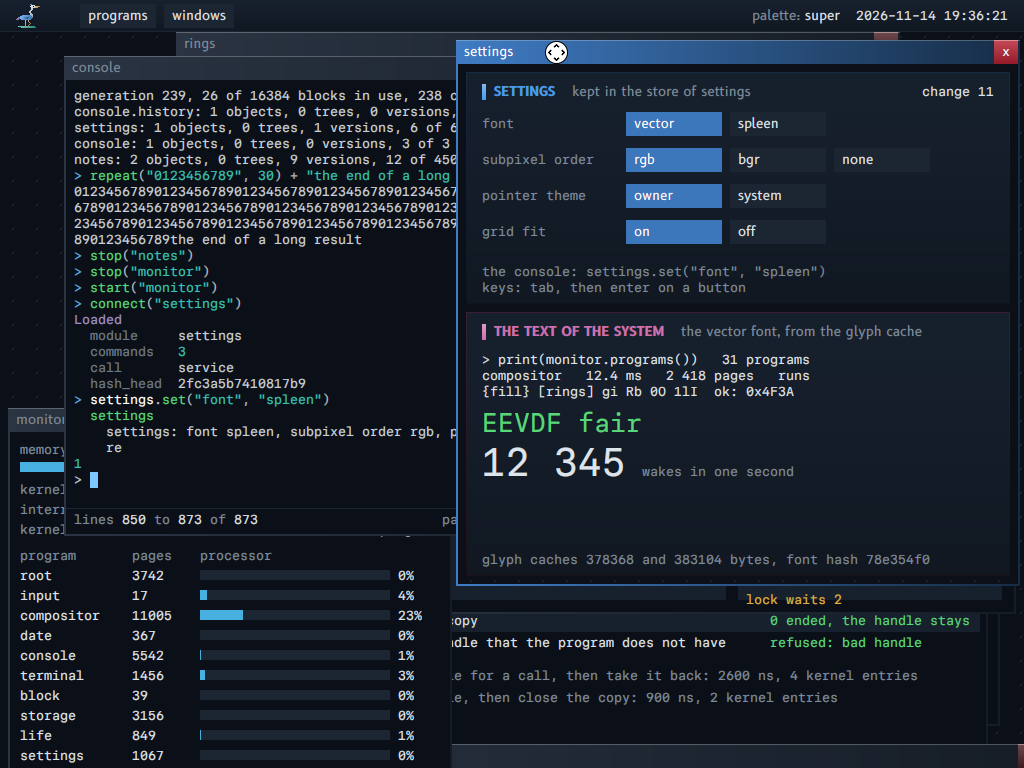
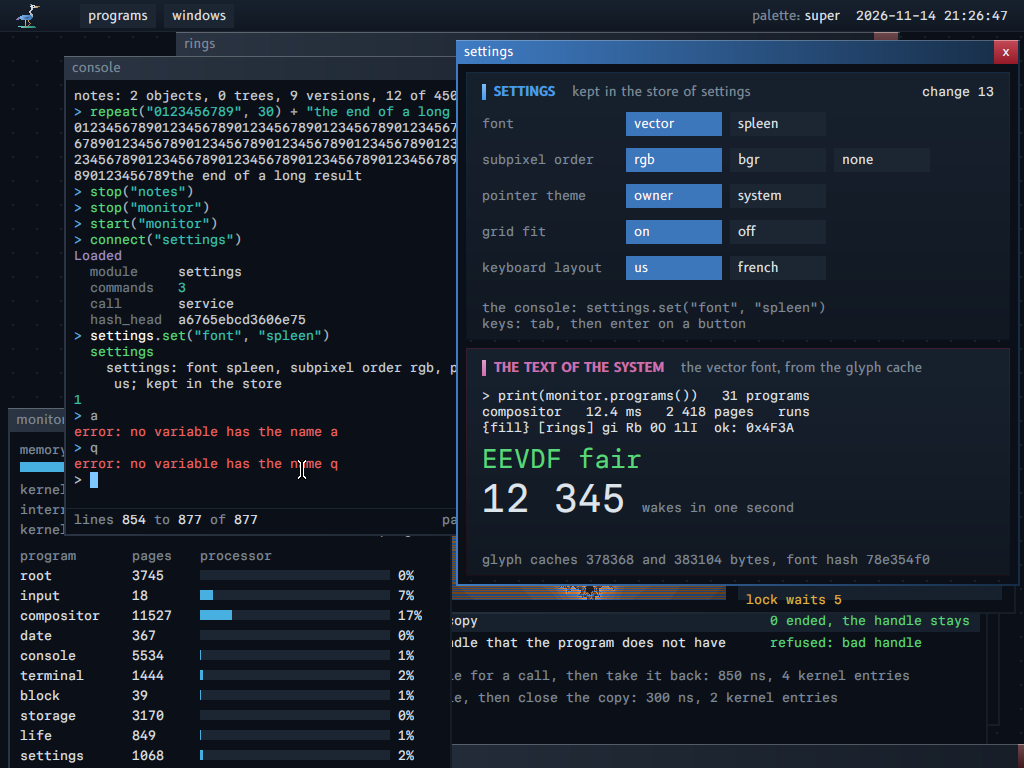
The layout of the keyboard is a setting: us or french, read by the input service at each key

diff --git a/docs/FONTS.md b/docs/FONTS.md
@@ -123,7 +123,8 @@ Each program validates its glyph caches once, then the drawing code reads the co
 | `values[subpixel_order]` | any number | the same: one of three orders of the stripes, a look |
 | `values[pointer_theme]` | any number | one of the two theme files that the compositor validated, a look |
 | `values[grid_fit]` | any number | one of the two caches that the program validated, a look |
-| `values[4..7]` | any number | no reader |
+| `values[keyboard_layout]` | any number | the input service gives each key the character of one of its two layouts; a value that the setting does not have reads as 0, the layout of the United States |
+| `values[5..7]` | any number | no reader |
 | `change_count` | odd for ever, or changed with no end | a reader gives up after 64 reads and takes the defaults (`settings.read`). The compositor tells the windows only when the values differ from the values that it told last (`settings.values_differ`): a new count with the same values sends no record into the ring of a window, which also carries its keys. Values that change with no end make the windows draw again: a cost of time, which the program `settings` also pays |
 | `reserved` | any number | no reader |
 
@@ -257,6 +258,7 @@ The settings are the smallest form that keeps the properties:
 - **The settings** (one value of the page and one row of `settings.descriptions` each; the window, the exports and the kept record read the same table): `font` (`vector`, `spleen`), `subpixel_order` (`rgb`, `bgr`, `none`), `pointer_theme` (`owner`, `system`) and `grid_fit` (`on`, `off`). Value 0 of each is its default.
   - **The pointer theme**: the root service gives the compositor both pointer theme files of the boot image (`pointer_theme_choice` in `src/programs/root/resources.odin` is the one place of their order: the values 6 and 7, then 18 and 19); the compositor validates each once and the setting chooses one live (`pointer_theme_choose`, a log line "the pointer theme in use").
   - **The grid fit**: two glyph caches of the default font are resources of the boot image (390 624 bytes with the fit, 397 344 without: +397 344 bytes in the image); each program validates both once and the setting chooses one. The picture `font_without_grid_fit`.
+  - **The layout of the keyboard**: the root service maps the settings page, read-only, in the input service, which reads the value at each key: a change holds from the next key. The two layouts are the United States (QWERTY) and France (AZERTY). A character of the system is one byte of ASCII, so a key whose character is outside ASCII in a layout (é, è, ç, à, ù) gives no character there; a program still gets its key code. The input service holds no other right for it: the page is the one thing that it reads.
   - **The scheduling strategy is not a setting.** The right `Schedule` belongs to `scheduler`. The settings service must not get a kernel right to pass it on (property 20: a service does not combine its own access with the request of a caller), and asking `scheduler` needs `scheduler` to run as a service at boot with that right. The principal changes the strategy through `scheduler`, the program that holds the right: in its window, or with its export `strategy_set`, which the console runs as `strategy(name)` and the palette as an entry, and which serves only a caller that acts for the principal (`SCHEDULING.md`, "The change at run time"). The program does not run at boot: it must be started. A strategy that survives a stop needs the root service, which holds the machine with each right, to read a record at boot. This is not built: it needs its own grant decision.
 - **The program `settings`**: a window of the interface package: each setting as a row of buttons (the pointer and the keyboard: Tab, then Enter), the text of the system at its three sizes, the facts of the glyph cache (size, hash, valid or not used). Exports with descriptions (P19): `settings.set(name, value)` (1, or an error record: `No_Grant` -1 for a caller that does not act for the principal, `Absent` -2 for a name, `Bad_Value` -3 for a value) and `settings.get(name)` (a text), and `settings.repeat(count)` (count records kept, one commit each: the case of the loss of power). The console calls them after `connect("settings")`; `modustool call` calls them through `remote`.
 - **The settings survive a stop.** `settings` keeps the values as one record of 48 bytes (`Kept_Settings`: a magic, a version, a count, 8 values) in one object of its private store (P9): a change writes the record (one commit) first, then the page. At boot the root service starts `settings` for a **boot pass** (the context value 17): it reads the record, writes the page, wakes the compositor and stops, with no window. The storage service and the block service of the data disk start at boot for it. A record of another version, or none, gives the defaults.

diff --git a/docs/FIRST_MILESTONE.md b/docs/FIRST_MILESTONE.md
@@ -1010,6 +1010,7 @@ The cost of the checks, as these runs show it: about 30 % of the reports and of 
 761. **The debugger has a window, a client of the service** (`src/programs/debugger_window`, `src/library/support/system/calls.odin`, `src/programs/root/main.odin`; `TOOLS.md`, "The window of the debugger"; `src/md/features/debugger_window.md`). (1) The program `debugger_window` connects to the service `debugger` and calls 13 of its exports. Its grants: Connect, with `debugger` as the one service that it can reach, Image and Acts_For_Principal. It holds no right over a program. (2) `system.call_isolated` takes the memory of the caller for the records of a Table result, and gives the count of the records that it copied there: the console had that code for itself only. (3) The window declares the records of the rows, and compares the size of each with the description in the file of the service at its start. (4) Four cards, each text in its box, and one key for each act; the window reads the threads again each 500 ms. (5) The machine test of the debugger: the window attaches to `debug_target` by a typed name, holds the main thread, shows the frame of its caller (the picture), runs one line over each call, and detaches. (6) Left, with an entry of the roadmap: breakpoints and watches from the window, the registers, the memory.
 762. **The window of the debugger puts a breakpoint at the line of a frame, and shows the registers** (`src/programs/debugger_window/main.odin`; `TOOLS.md`, "The window of the debugger"). (1) The key `b` calls `break_at` with the path of the file and the line of the chosen frame: the place is a text that the service already takes, so the window computes no address. A frame with no line has no such place, and the status line says so. (2) The card of the program lists the breakpoints under the threads, each with its number, and the keys `0` to `3` call `break_remove`. (3) The key `g` gives the card of the variables to the registers of the chosen thread, in two columns of a name and a value with no leading zero, and gives it back. (4) The window calls 17 exports of the service. Left, with an entry of the roadmap: a watch, a place that the developer types, the memory, a click.
 763. **A machine starts an outside module from a disk** (`tools/modustool/outside_module.odin`, `disk_programs.odin`; `TOOLS.md`, "A module from a source outside the repository"). (1) The first plan put an outside module in the boot image of a volume, which changes the system description, the debug image and the build record. The disk programs make that plan needless: the module file of an outside module is a file of the store `programs`, and the root service starts it by its hash, with no grant. (2) The command `program-disk <disk file> <module file> ...` writes the disk and prints the line `start_from_disk("name", "hash")` for each file; the loader must take each file, and the command writes no disk over a file that exists. (3) The test part `disk_programs` builds the sources of `visitor` outside the sources with `module-build`, under the name `outsider`, puts the file on its disk as a fourth object, and starts it in the machine. (4) Left: the debug object of such a module in the debug image of the machine.
+764. **The layout of the keyboard is a setting** (`src/library/contract/settings/settings.odin`, `src/programs/input/main.odin`, `src/programs/root/main.odin`; `FONTS.md`, "The settings"; `GLOSSARY.md`, "Setting"). (1) The setting `keyboard_layout` has two values: `us` (QWERTY, the default) and `french` (AZERTY). It is the fifth value of the settings page, so the window, the exports and the kept record of `settings` show it with no code of their own. (2) The root service maps the settings page, read-only, in the input service, which reads the value at each key: a change holds from the next key, with no message and no restart. The input service gets no other right. (3) A character of the system is one byte of ASCII: a key whose character is outside ASCII in the layout of France (é, è, ç, à, ù, ², °, £, µ, §) gives no character, and a program still gets its key code. An entry of the roadmap holds the characters of Unicode. (4) Refused: a layout in the compositor (the compositor does not know scan codes; the input service turns them into characters for each program); a message of the settings service to the input service at each change (the page is already the one place of the values, and a reader of the page needs no ring). (5) The machine test sets the layout from the host, types the key of `q` under each layout, and finds `> a`, then `> q`. Escape closes the completion list that a typed name opens, so that Enter runs the line.
 
 ## Gaps
 

diff --git a/ROADMAP.md b/ROADMAP.md
@@ -33,7 +33,7 @@ This file holds the planned work of modus. **Now** is the work that is in progre
 - **A pager for another program.** A program answers the page faults of another program and supplies its pages.
 - **Every window uses the interface package.** The windows of the programs that still draw by themselves are built from the elements of the interface package. Each window then has the same look, the same keys and the same damage rules.
 - **The wheel of a pointing device moves a view.** The wheel moves the view that is under the pointer: the lines of a terminal, a list, the palette. A principal then reads a long content with no press on a scroll bar. [Design](src/md/features/scroll_bar.md)
-- **Keyboard layouts.** The input service reads a layout other than the US layout. A principal chooses the layout as a setting.
+- **Characters outside ASCII.** A key gives a character of Unicode, so the layout of France gives é, è, ç, à and ù. A principal then types the words of a language other than English.
 - **The program `manual` opens the links of a page.** A link to a term, a guide or a declaration in the documentation of a module opens its page in the program `manual`. Today only a link to a module or to an export opens.
 - **The console colors each field by its value kind.** The description of a field of a record states its value kind, so the console draws a size, a time or a handle in a field in its color. Today a field has the color of its type only.
 - **The history of a store.** A version is a state of a whole store, and the versions of each object are found in it. A principal then steps a store back as one thing, not object by object.

diff --git a/docs/GLOSSARY.md b/docs/GLOSSARY.md
@@ -4479,14 +4479,15 @@ Do not use: proportional font cache.
 
 ### Setting
 
-A setting is one choice of the principal of the machine that changes how each program draws: the font, the order of the subpixel bands, the pointer theme or the grid fit.
+A setting is one choice of the principal of the machine that each program follows: the font, the order of the subpixel bands, the pointer theme, the grid fit or the layout of the keyboard.
 
 A setting is one value of the settings page, with 0 as its default:
 
 - `font`: `vector` (Paper Mono) or `spleen`;
 - `subpixel_order`: `rgb`, `bgr` or `none`;
 - `pointer_theme`: `owner` or `system`;
-- `grid_fit`: `on` or `off`.
+- `grid_fit`: `on` or `off`;
+- `keyboard_layout`: `us` or `french`.
 
 The program `settings` is the one writer. It shows each setting as a row of buttons, and it exports `settings.set(name, value)` and `settings.get(name)`, so the console and `modustool call` change a setting too. A caller that does not act for the principal gets `No_Grant`. A change takes effect while programs run: the compositor sees it, draws its screen again and sends `Settings_Changed` to each window. The values survive a stop: `settings` keeps them as one record in its private store, and its boot pass writes them on the page at the start.
 

diff --git a/news/2026-11-14-keyboard-layouts.md b/news/2026-11-14-keyboard-layouts.md
@@ -1,0 +1,12 @@
+title: Keyboard layouts
+date: 2026-11-14
+release: next
+picture: docs/screenshots/settings.png
+kind: Shown
+guide: docs/FONTS.md
+
+The keyboard has a layout. The window of `settings` has a row for it, with two values: `us`, the QWERTY layout, and `french`, the AZERTY layout. The input service reads the setting at each key, so a change holds from the next key, with no restart.
+
+The test of the machine types the same key under each layout: it gives `a` with the layout of France, then `q` with the layout of the United States.
+
+A character of the system is one byte of ASCII today. A key whose character is outside ASCII, such as é or ç, gives no character yet; a program still gets its key code.

diff --git a/changelog.d/20261114-213000-keyboard-layouts.md b/changelog.d/20261114-213000-keyboard-layouts.md
@@ -1,0 +1,3 @@
+type: Added
+
+**Keyboard layouts.** The setting `keyboard_layout` chooses the layout of the keyboard: `us` (QWERTY) or `french` (AZERTY). The window of `settings` shows it as a row of buttons, and `settings.set("keyboard_layout", "french")` sets it; a change holds from the next key. A key whose character is outside ASCII in a layout gives no character yet.
